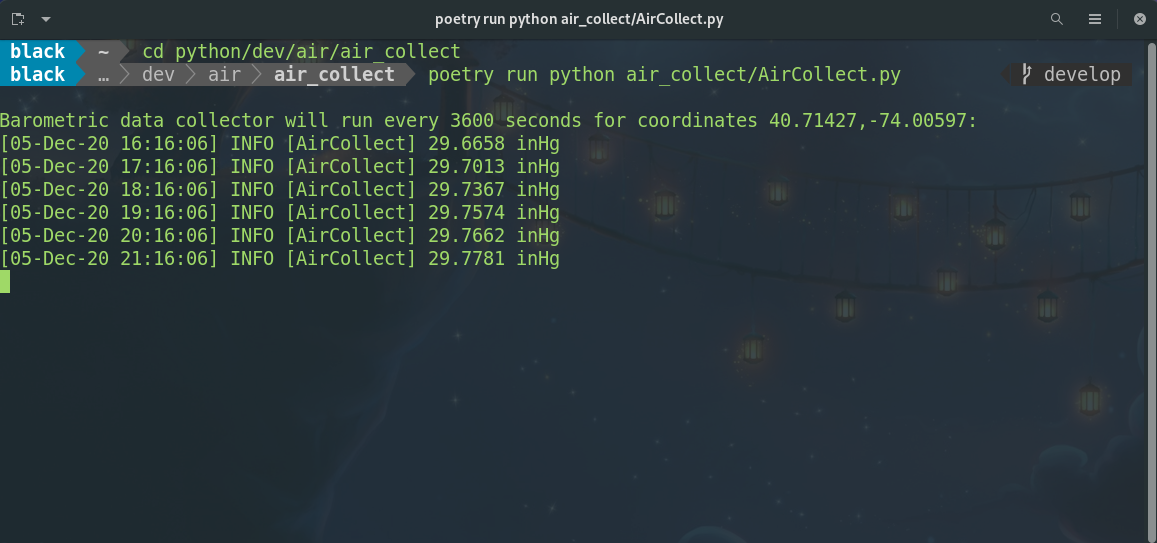
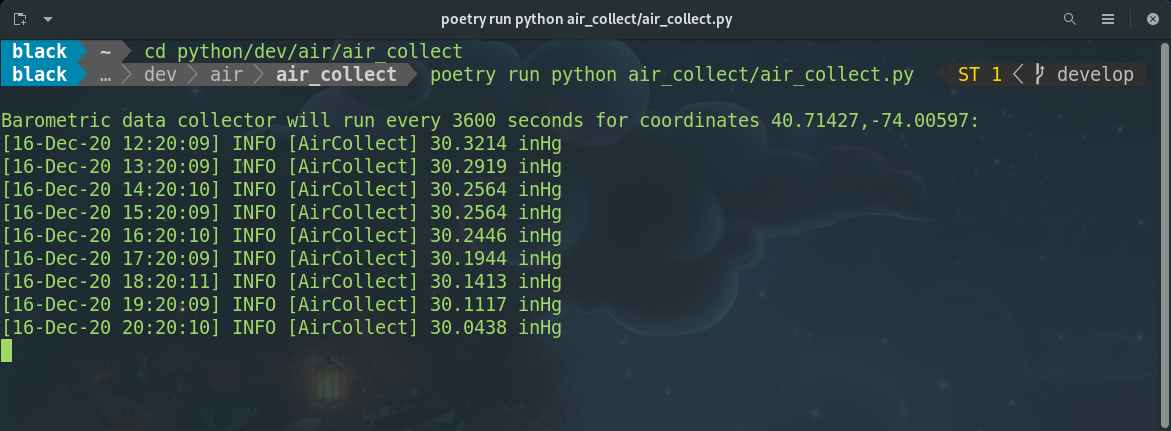
style(files): lowercase names, python convention

diff --git a/air_collect/air_collect.py b/air_collect/air_collect.py
@@ -10,7 +10,7 @@ import pandas as pd
 from dotenv import load_dotenv
 from datetime import datetime
 from apscheduler.schedulers.blocking import BlockingScheduler
-from bin.AirSettings import File_Settings
+from bin.air_settings import file_settings
 
 
 class AirCollect:
@@ -21,14 +21,14 @@ class AirCollect:
         self.logger = logging_object.getLogger(type(self).__name__)
         self.logger.setLevel(logging.INFO)
 
-        self.live_data_file = self.get_full_file_path(File_Settings['live_data']['data_file'])
-        self.next_48_hours_data_file = self.get_full_file_path(File_Settings['next_48_hours']['data_file'])
-        self.next_7_days_data_file = self.get_full_file_path(File_Settings['next_7_days']['data_file'])
+        self.live_data_file = self.get_full_file_path(file_settings['live_data']['data_file'])
+        self.next_48_hours_data_file = self.get_full_file_path(file_settings['next_48_hours']['data_file'])
+        self.next_7_days_data_file = self.get_full_file_path(file_settings['next_7_days']['data_file'])
 
-        self.live_data_diff_file = self.get_full_file_path(File_Settings['live_data']['diff_file'])
-        self.live_data_2nd_order_diff_file = self.get_full_file_path(File_Settings['live_data']['diff2_file'])
-        self.next_48_hours_data_diff_file = self.get_full_file_path(File_Settings['next_48_hours']['diff_file'])
-        self.next_7_days_data_diff_file = self.get_full_file_path(File_Settings['next_7_days']['diff_file'])
+        self.live_data_diff_file = self.get_full_file_path(file_settings['live_data']['diff_file'])
+        self.live_data_2nd_order_diff_file = self.get_full_file_path(file_settings['live_data']['diff2_file'])
+        self.next_48_hours_data_diff_file = self.get_full_file_path(file_settings['next_48_hours']['diff_file'])
+        self.next_7_days_data_diff_file = self.get_full_file_path(file_settings['next_7_days']['diff_file'])
 
         self.dark_sky_api_url = 'https://api.darksky.net/forecast/{}/{}'.format(api_key, location_lat_long)
         self.query_api_interval = query_interval
@@ -151,5 +151,5 @@ if __name__ == '__main__':
                                  NUM_OF_LIVE_READINGS)
         air_collect.run_metronome()
     except TypeError:
-        logger.error('Process received a TypeError ... Check that the .env project file is configured correctly')
+        logger.error('Received TypeError: Check that the .env project file is configured correctly')
         exit()

diff --git a/air_collect/bin/air_settings.py b/air_collect/bin/air_settings.py
@@ -1,6 +1,6 @@
 #  Configuration for different plotting perspectives
 
-File_Settings = {
+file_settings = {
     'live_data': {
         'data_file': 'data/liveData.csv',
         'diff_file': 'data/differentials/liveDataDiff.csv',

diff --git a/README.rst b/README.rst
@@ -1,5 +1,5 @@
 =================
-AirCollect
+air_collect
 =================
 
 A simple local barometric pressure measurement logger using the DarkSky API
@@ -24,20 +24,20 @@ Introduction
 ------------
 This project functions as part of the larger air project. This particular repository's purpose is:
 
-1. To collect the barometric pressure of a location using the DarkSky API (AirCollect.py).
-2. To generate differential information from the data collected (AirCollect.py).
+1. To collect the barometric pressure of a location using the DarkSky API (air_collect.py).
+2. To generate differential information from the data collected (air_collect.py).
 
 The differential data in this project is supplied in order to gain insight into how quickly certain time intervals are
 changing in barometric pressure which could be a point of interest.
 
-AirCollect.py
-~~~~~~~~~~~~~~~~~~~~~~
-AirCollect.py is named aptly as it is the process in charge of running continuously, polling the DarkSky API
+air_collect.py
+~~~~~~~~~~~~~~
+air_collect.py is named aptly as it is the process in charge of running continuously, polling the DarkSky API
 for barometric pressure measurements. It takes the measurements collected from the API requests outputting them out to
 the terminal, and aggregating them in the data folder as collection of CSVs. This process creates data files of
 live barometric pressure readings, along with data files for the next 48hrs, and the next 7 days barometric pressures.
 It also saves the differential processing of those data files in the differentials folder within the data folder.
-Differentials are taken for the live, 48hr, and 7 day data feeds. AirCollect.py requires that an ``.env`` file
+Differentials are taken for the live, 48hr, and 7 day data feeds. air_collect.py requires that an ``.env`` file
 is available in the *same* directory it is running under. The format of the .env file should contain ``DARK_SKY_API_KEY``,
 ``QUERY_API_INTERVAL``, ``NUM_OF_LIVE_READINGS``, and ``COORDINATES_LAT_LONG`` as defined environment values.
 
@@ -62,7 +62,11 @@ A typical ``.env`` file may look like this::
 
 To run the script once the environment (.env) file is created, from within the air_collect directory, simply type::
 
-    poetry run python air_collect/AirCollect.py
+    poetry run python air_collect/air_collect.py
+
+Logs
+-----
+Process logs are generated in the project's root directory's log folder.
 
 Commit Conventions
 ----------------------
